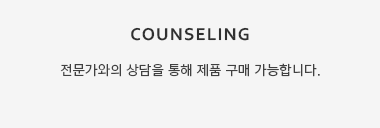
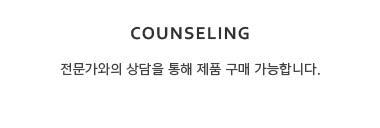
사진 및 텍스트 변경
사진 및 텍스트 변경

Changed region(s): [[0.1447, 0.4688, 0.8395, 0.625], [0.3474, 0.1875, 0.5789, 0.3125], [0.5789, 0.1875, 0.6658, 0.3125]]

diff --git a/index.html b/index.html
@@ -26,9 +26,9 @@
             <ul class="ut">
                 <li><a href="#"><img src="img/icon_login.png" alt=""></a></li>
                 <li><a href="#"><img src="img/icon_join.png" alt=""></a></li>
-                <li><a href="#"><img src="img/icon_f.png" alt=""></a></li>
-                <li><a href="https://www.instagram.com/stonehenge_official/?hl=ko"><img src="img/icon_insta.png" alt=""></a></li>
-                <li><a href="#"><img src="img/icon_매장.png" alt=""></a></li>               
+                <li><a href="#"><img src="img/icon_wish.png" alt=""></a></li>
+                <li><a href="#"><img src="img/icon_order.png" alt=""></a></li>
+                <li><a href="#"><img src="img/icon_mypage.png" alt=""></a></li>               
             </ul>
             <!-- 헤더탑 오른쪽 아이콘 -->
         </div>
@@ -82,8 +82,8 @@
         <div id="main_slider">
             <div><img src="./img/main-slider-01.png" alt=""></div>
             <div><img src="./img/main-slider-02.jpeg" alt=""></div>
-            <div><img src="./img/main-slider-03.jpeg" alt=""></div>
             <div><img src="./img/main-slider-04.png" alt=""></div>
+            <div><img src="./img/main-slider-03.jpeg" alt=""></div>
         </div>
         <a href="#" class="prev"></a>
         <a href="#" class="next"></a>
@@ -191,13 +191,13 @@
                 <div class="item_img"></div>
                 <div class="item_texts">
                     <div class="title">
-                        <img src="./img/specialJewelry_item1_title.png" alt="">
+                        <img src="./img/LoveActually_title.png" alt="">
                     </div>
                     <div>
-                        <img src="./img/specialJewelry_item1_con1.png" alt="">
+                        <img src="./img/LoveActually_text1.png" alt="">
                     </div>
                     <div>
-                        <img src="./img/specialJewelry_item1_con2.png" alt="">
+                        <img src="./img/LoveActually_text2.png" alt="">
                     </div>
                 </div>
             </li>
@@ -206,13 +206,13 @@
                 <div class="item_img"></div>
                 <div class="item_texts">
                     <div class="title">
-                        <img src="./img/specialJewelry_item1_title.png" alt="">
+                        <img src="./img/MyWish_title.png" alt="">
                     </div>
                     <div>
-                        <img src="./img/specialJewelry_item1_con1.png" alt="">
+                        <img src="./img/MyWish_item1_con1.png" alt="">
                     </div>
                     <div>
-                        <img src="./img/specialJewelry_item1_con2.png" alt="">
+                        <img src="./img/MyWish_item1_con2.png" alt="">
                     </div>
                 </div>
             </li>
@@ -221,13 +221,13 @@
                 <div class="item_img"></div>
                 <div class="item_texts">
                     <div>
-                        <img src="./img/specialJewelry_item1_title.png" alt="">
+                        <img src="./img/text_Fair Trade Gold.png" alt="">
                     </div>
                     <div>
-                        <img src="./img/specialJewelry_item1_con1.png" alt="">
+                        <img src="./img/text_Fair Trade Gold2.png" alt="">
                     </div>
                     <div>
-                        <img src="./img/specialJewelry_item1_con2.png" alt="">
+                        <img src="./img/text_Fair Trade Gold3.png" alt="">
                     </div>
                 </div>
             </li>
@@ -303,7 +303,7 @@
                 <div class="guide">
                     <img src="./img/img_counseling.png" alt="">
                 </div>
-                <img src="img/text_sizeguid.png" alt="">
+                <img src="img/text_counseling.png" alt="">
                 <a href="#" class="line_detail_button" target="_blank">
                     <span class="btn_txt"><img src="img/button_detail.png" alt=""></span>
                 </a>
@@ -312,7 +312,7 @@
                 <div class="guide">
                     <img src="./img/img_packing.png" alt="">
                 </div>
-                <img src="img/text_sizeguid.png" alt="">
+                <img src="img/text_packing.png" alt="">
                 <a href="#" class="line_detail_button" target="_blank">
                     <span class="btn_txt"><img src="img/button_detail.png" alt=""></span>
                 </a>

diff --git a/css/main.css b/css/main.css
@@ -160,6 +160,10 @@ a.line_detail_button:hover::before {
 .header_top .ut {display: inline-block; position: absolute; right: 0; line-height: 25px;}
 .header_top .ut li {display: inline-block;}
 
+.ut li:nth-child(5) a{margin-right: -22px;}
+.ut li {margin-right: -20px;}
+
+
 .header_top .social li:nth-child(4) a::after{
     content: '';
     display: inline-block;
@@ -271,6 +275,10 @@ nav.active #drop_menu {
     position: relative;
     padding-top: 8px;
 }
+
+#con1 .prev { margin-left: 55px;}
+#con1 .next { margin-right: 55px;}
+
 
 /* slider */
 #main_slider {
@@ -387,7 +395,7 @@ nav.active #drop_menu {
     height: 720px; 
     display: flex;
     align-items: center;
-    background-color: #f5f5f5;
+    background-color: #f3f3f3;
 }
 
 #con3 > div {
